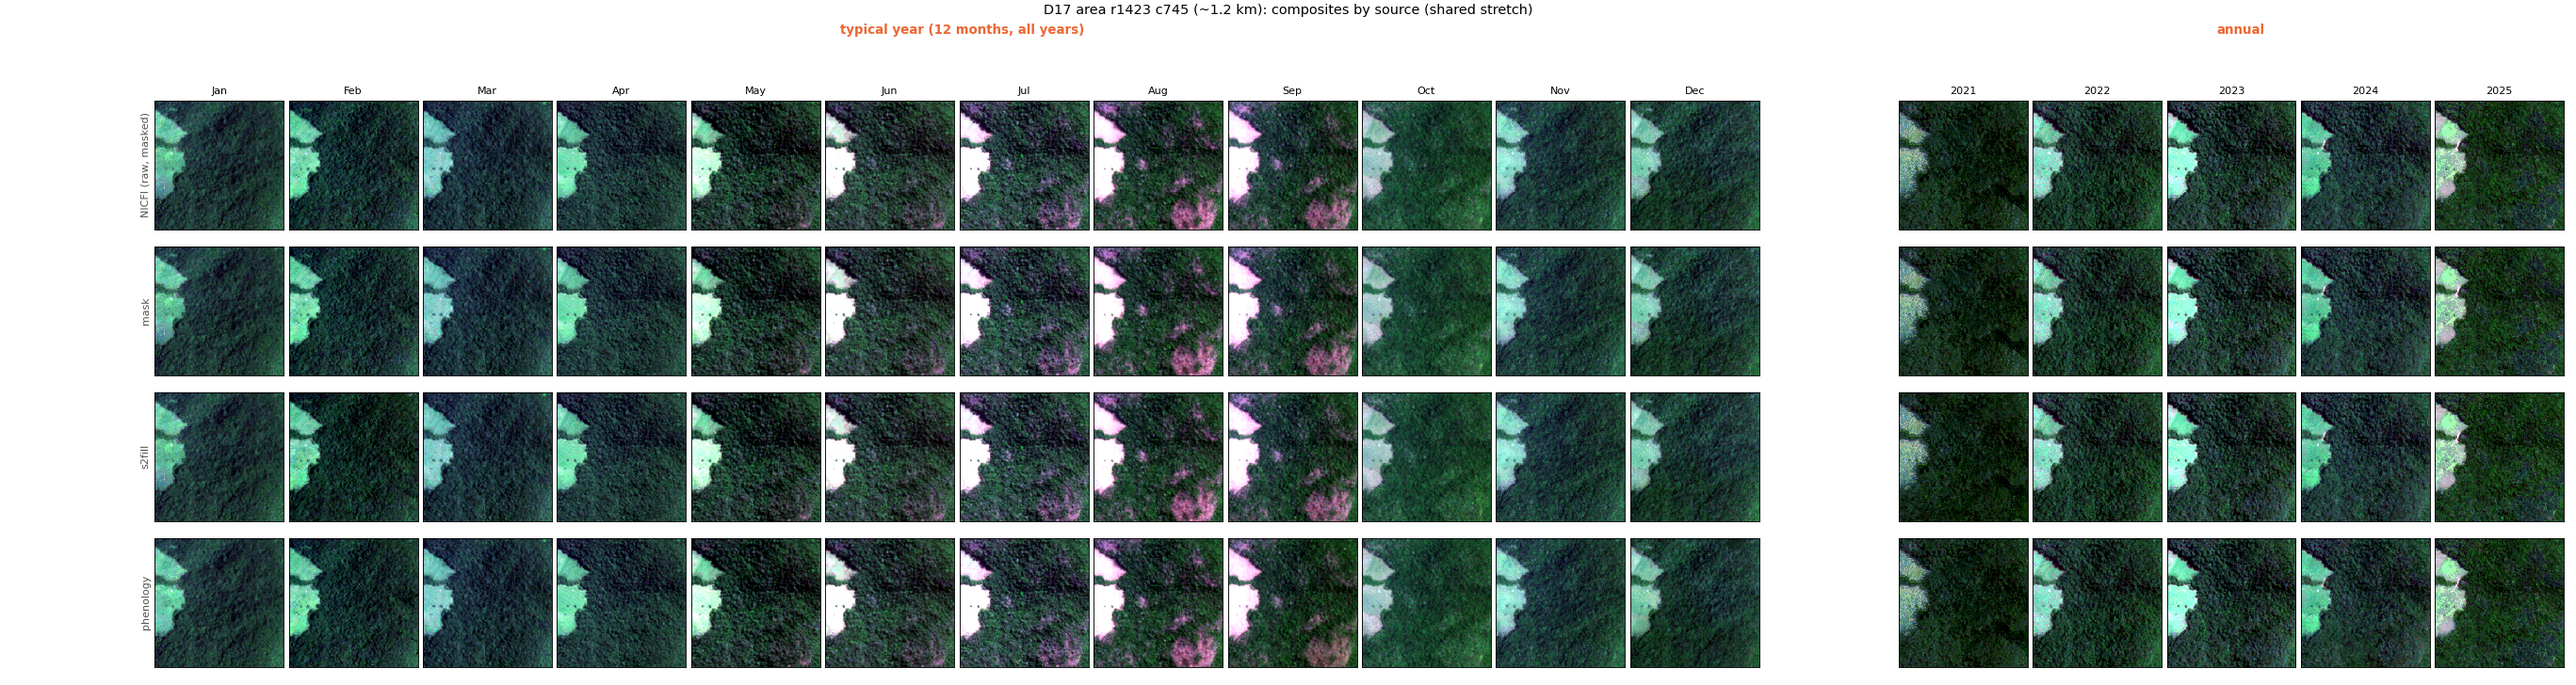
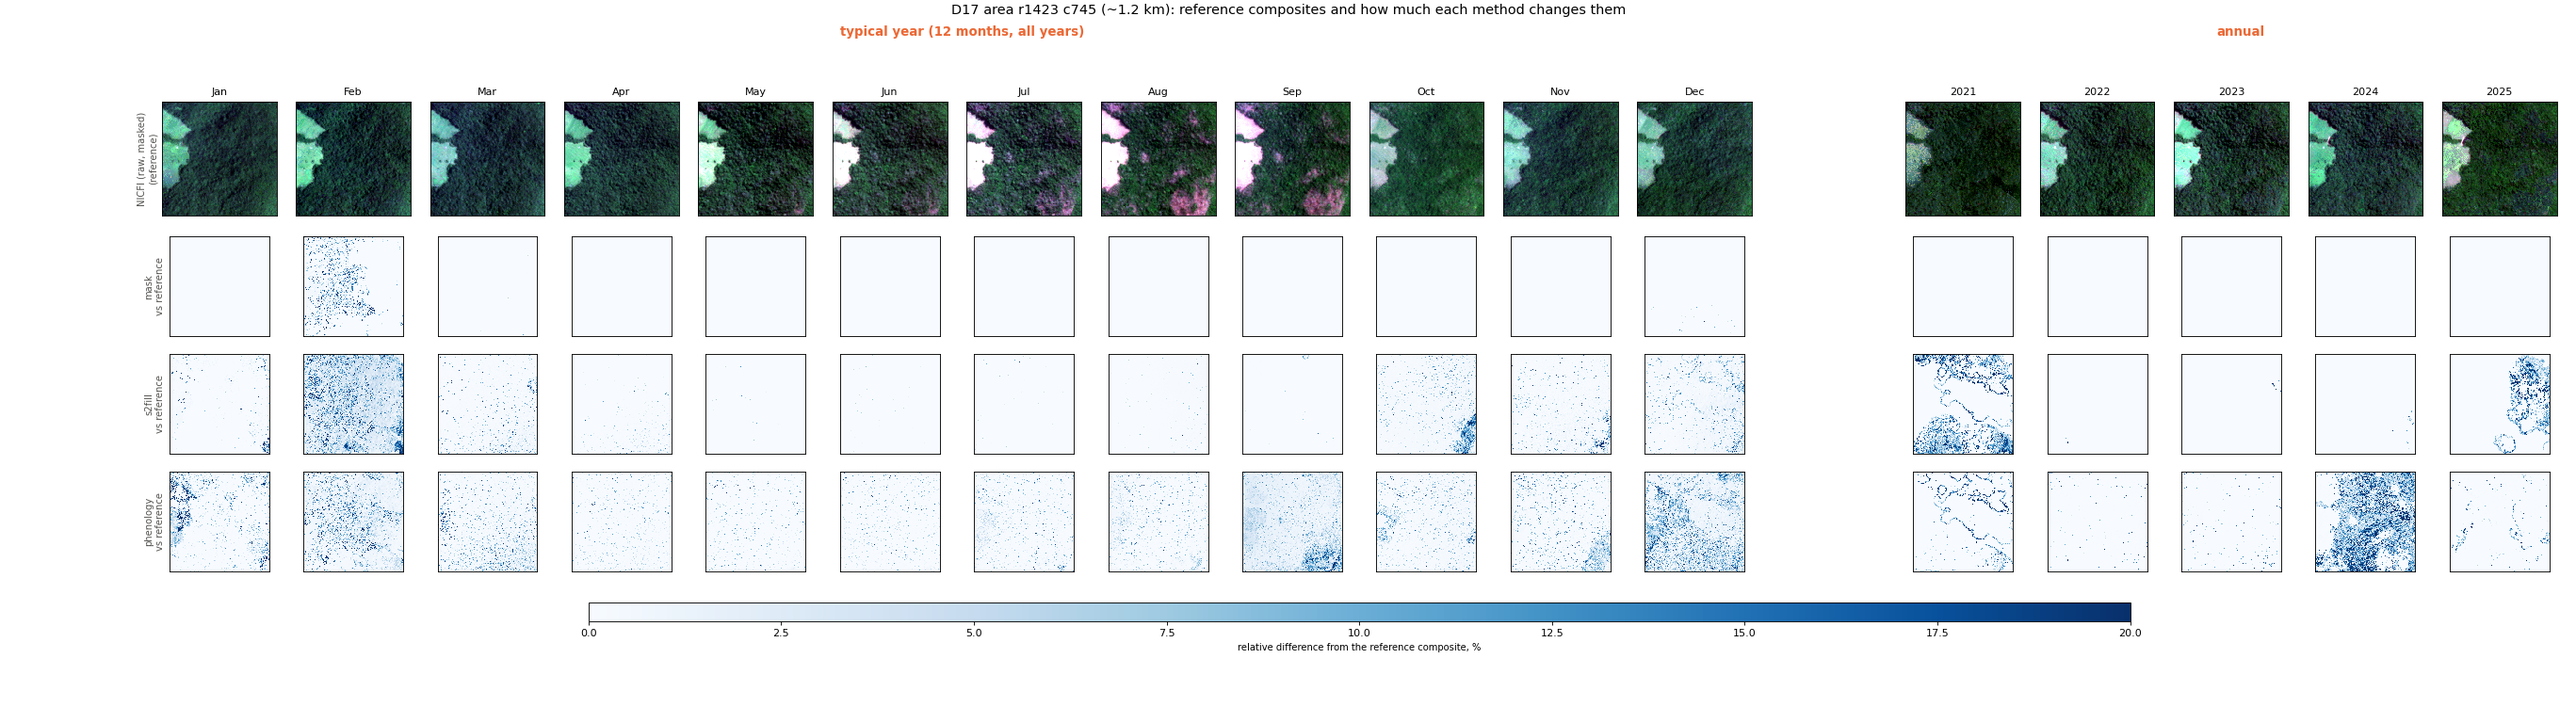
Composite figures: show each method's difference from the raw-NICFI reference
Side by side, the composites from different sources looked identical
(differences of a few DN on ~200), so typical_year.png, annual.png and the
area figures now show the raw-NICFI composite as reference plus each
method's relative-difference map, with the share of pixels differing > 5%.

diff --git a/src/nicfirecon/viz.py b/src/nicfirecon/viz.py
@@ -20,11 +20,12 @@ post-checked NICFI masks (cache/example_windows.json).
                              each method's result, its quality source below
     compare_full_tile.png    the most contaminated months, whole tile
 3_composite/
-    typical_year.png         12 monthly composites, one row per source
-    annual.png               annual composites, one row per source
+    typical_year.png         12 monthly composites from raw NICFI (reference),
+                             then each method's relative difference from it
+    annual.png               the same for the annual composites
     coverage.png             per source, % of tile from usable observations
-    area_<year>_r<row>_c<col>.png  one example area: typical year + annual,
-                             one row per source
+    area_<year>_r<row>_c<col>.png  one example area: reference typical year +
+                             annual, then each method's difference maps
 """
 import json
 from collections import defaultdict
@@ -447,23 +448,62 @@ def _composite_paths(tile, kind, source):
     return {k: d / f"{tile.tile_id}_{k}.tif" for k in keys if (d / f"{tile.tile_id}_{k}.tif").exists()}
 
 
+DIFF_VMAX = 20.0      # % colour scale of the difference maps
+DIFF_THRESH = 5.0     # % above which a pixel counts as "different" in panel titles
+
+
+def rel_diff(a, ref):
+    """Per-pixel mean |a - ref| over the 4 bands, relative to ref's mean
+    brightness, in %; NaN where ref has no data."""
+    num = np.abs(a[:4].astype(np.float32) - ref[:4]).mean(0)
+    den = ref[:4].astype(np.float32).mean(0)
+    with np.errstate(invalid="ignore", divide="ignore"):
+        return np.where(np.all(ref[:4] > 0, axis=0), 100 * num / den, np.nan)
+
+
+def _reference(sources):
+    return "nicfi" if "nicfi" in sources else sources[0]
+
+
+def _diff_cmap():
+    cmap = plt.get_cmap("Blues").copy()
+    cmap.set_bad("#0b0b0b")
+    return cmap
+
+
 def _grid_figure(tile, kind, sources, title, path, step=6):
+    """Row 1: the reference composites (raw NICFI). Then, per other source,
+    a map of its relative difference from the reference -- the composites
+    themselves look near-identical side by side, the differences don't."""
     imgs = {s: {k: io_utils.read_full(p)[0][:, ::step, ::step]
                 for k, p in _composite_paths(tile, kind, s).items()} for s in sources}
-    keys = sorted({k for v in imgs.values() for k in v})
-    lims = lims_stack(np.stack([a for v in imgs.values() for a in v.values()]))
-    fig, axes = plt.subplots(len(sources), len(keys), figsize=(2.3 * len(keys), 2.45 * len(sources) + 0.6),
-                             squeeze=False)
-    for i, s in enumerate(sources):
-        for j, k in enumerate(keys):
-            if k in imgs[s]:
-                axes[i, j].imshow(rgb(imgs[s][k], lims))
-            if i == 0:
-                axes[i, j].set_title(MONTH_ABBR[int(k[1:]) - 1] if kind == "typical_year" else k, fontsize=11)
-        axes[i, 0].set_ylabel(SOURCE_LABEL[s], fontsize=11, color=INK)
+    ref = _reference(sources)
+    others = [s for s in sources if s != ref]
+    keys = sorted(imgs[ref])
+    lims = lims_stack(np.stack(list(imgs[ref].values())))
+    fig, axes = plt.subplots(1 + len(others), len(keys), squeeze=False,
+                             figsize=(2.3 * len(keys), 2.55 * (1 + len(others)) + 1.0))
+    label = (lambda k: MONTH_ABBR[int(k[1:]) - 1]) if kind == "typical_year" else (lambda k: k)
+    for j, k in enumerate(keys):
+        axes[0, j].imshow(rgb(imgs[ref][k], lims))
+        axes[0, j].set_title(label(k), fontsize=11)
+        for i, s in enumerate(others, start=1):
+            if k not in imgs[s]:
+                continue
+            d = rel_diff(imgs[s][k], imgs[ref][k])
+            im = axes[i, j].imshow(d, cmap=_diff_cmap(), vmin=0, vmax=DIFF_VMAX, interpolation="nearest")
+            axes[i, j].set_title(f"{np.nanmean(d > DIFF_THRESH):.1%} > {DIFF_THRESH:g}%", fontsize=8.5,
+                                 color=INK)
+    axes[0, 0].set_ylabel(f"{SOURCE_LABEL[ref]}\n(reference)", fontsize=10, color=INK)
+    for i, s in enumerate(others, start=1):
+        axes[i, 0].set_ylabel(f"{s}\nvs reference", fontsize=10, color=INK)
     _noticks(axes)
+    if others:
+        cb = fig.colorbar(im, ax=axes[1:, :].ravel().tolist(), orientation="horizontal",
+                          fraction=0.03, pad=0.04, aspect=70)
+        cb.set_label("relative difference from the reference composite, % (mean |Δ| over bands / "
+                     "reference brightness)", fontsize=9)
     fig.suptitle(title, fontsize=13)
-    fig.tight_layout()
     return _save(fig, path, 80)
 
 
@@ -499,44 +539,55 @@ def fig_coverage(tile, ty_sources, an_sources, out_dir):
 
 
 def fig_composite_areas(tile, ty_sources, an_sources, out_dir):
+    """Per example area: the reference (raw NICFI) typical-year and annual
+    composites, then each other source's relative difference from them."""
     sources = [s for s in cp.SOURCES if s in ty_sources or s in an_sources]
+    ref = _reference(sources)
+    others = [s for s in sources if s != ref]
     chosen = {}
     for w in example_windows(tile):
         chosen.setdefault(w["month"][:4], w)
+    mk, yk = [f"m{k:02d}" for k in range(1, 13)], tile.years
     paths = []
     for year, w in sorted(chosen.items()):
-        ty = {s: {k: _crop(io_utils.read_full(p)[0], w) for k, p in _composite_paths(tile, "typical_year", s).items()}
-              for s in ty_sources}
-        an = {s: {k: _crop(io_utils.read_full(p)[0], w) for k, p in _composite_paths(tile, "annual", s).items()}
-              for s in an_sources}
-        mk = [f"m{k:02d}" for k in range(1, 13)]
-        yk = tile.years
-        all_crops = [a for v in list(ty.values()) + list(an.values()) for a in v.values()]
-        lims = lims_stack(np.stack(all_crops))
+        load = lambda kind, src: {k: _crop(io_utils.read_full(p)[0], w)
+                                  for k, p in _composite_paths(tile, kind, src).items()}
+        ty = {s: load("typical_year", s) for s in ty_sources}
+        an = {s: load("annual", s) for s in an_sources}
+        refs = list(ty.get(ref, {}).values()) + list(an.get(ref, {}).values())
+        lims = lims_stack(np.stack(refs))
         ncol = len(mk) + 1 + len(yk)
-        fig, axes = plt.subplots(len(sources), ncol, figsize=(1.9 * ncol, 2.05 * len(sources) + 0.9),
-                                 squeeze=False, gridspec_kw=dict(wspace=0.04, hspace=0.06, left=0.06,
-                                                                 right=0.995, top=0.86, bottom=0.02))
-        for i, s in enumerate(sources):
-            for j, k in enumerate(mk):
-                if k in ty.get(s, {}):
-                    axes[i, j].imshow(rgb(ty[s][k], lims), interpolation="nearest")
+        nrow = 1 + len(others)
+        fig, axes = plt.subplots(nrow, ncol, figsize=(1.9 * ncol, 2.05 * nrow + 1.4), squeeze=False,
+                                 gridspec_kw=dict(wspace=0.04, hspace=0.18, left=0.06, right=0.995,
+                                                  top=0.86, bottom=0.14))
+        im = None
+        for block, keys, offset in ((ty, mk, 0), (an, yk, len(mk) + 1)):
+            for j, k in enumerate(keys, start=offset):
+                if k in block.get(ref, {}):
+                    axes[0, j].imshow(rgb(block[ref][k], lims), interpolation="nearest")
+                axes[0, j].set_title(MONTH_ABBR[j] if offset == 0 else k, fontsize=10)
+                for i, s in enumerate(others, start=1):
+                    if k in block.get(s, {}) and k in block.get(ref, {}):
+                        d = rel_diff(block[s][k], block[ref][k])
+                        im = axes[i, j].imshow(d, cmap=_diff_cmap(), vmin=0, vmax=DIFF_VMAX,
+                                               interpolation="nearest")
+        for i in range(nrow):
             axes[i, len(mk)].axis("off")
-            for j, k in enumerate(yk, start=len(mk) + 1):
-                if k in an.get(s, {}):
-                    axes[i, j].imshow(rgb(an[s][k], lims), interpolation="nearest")
-            axes[i, 0].set_ylabel(SOURCE_LABEL[s], fontsize=10, color=INK)
-        for j, k in enumerate(mk):
-            axes[0, j].set_title(MONTH_ABBR[j], fontsize=10)
-        for j, k in enumerate(yk, start=len(mk) + 1):
-            axes[0, j].set_title(k, fontsize=10)
+        axes[0, 0].set_ylabel(f"{SOURCE_LABEL[ref]}\n(reference)", fontsize=9, color=INK)
+        for i, s in enumerate(others, start=1):
+            axes[i, 0].set_ylabel(f"{s}\nvs reference", fontsize=9, color=INK)
         _noticks(axes)
+        if im is not None:
+            cb = fig.colorbar(im, ax=axes[1:, :].ravel().tolist(), orientation="horizontal",
+                              fraction=0.05, pad=0.08, aspect=80)
+            cb.set_label("relative difference from the reference composite, %", fontsize=9)
         fig.text(0.06 + 0.94 * len(mk) / ncol / 2, 0.95, "typical year (12 months, all years)",
                  ha="center", fontsize=12, weight="bold", color=C2)
         fig.text(0.06 + 0.94 * (len(mk) + 1 + len(yk) / 2) / ncol, 0.95, "annual", ha="center",
                  fontsize=12, weight="bold", color=C2)
         fig.suptitle(f"{tile.tile_id} area r{w['r0']} c{w['c0']} (~{w['win'] * 4.77 / 1000:.1f} km): "
-                     "composites by source (shared stretch)", fontsize=13, y=0.995)
+                     "reference composites and how much each method changes them", fontsize=13, y=0.995)
         paths.append(_save(fig, out_dir / f"area_{year}_r{w['r0']}_c{w['c0']}.png", 80))
     return paths
 
@@ -565,11 +616,12 @@ def run_visualize(tile: cfg.Tile, what: str = "all", log=print):
             out = tile.fig_dir("3_composite")
             if ty:
                 paths.append(_grid_figure(tile, "typical_year", ty, f"{tile.tile_id}: typical-year "
-                                          "monthly composites by source (shared stretch)",
+                                          "composites -- reference, and how much each method changes it",
                                           out / "typical_year.png"))
             if an:
-                paths.append(_grid_figure(tile, "annual", an, f"{tile.tile_id}: annual composites by "
-                                          "source (shared stretch)", out / "annual.png", step=4))
+                paths.append(_grid_figure(tile, "annual", an, f"{tile.tile_id}: annual composites -- "
+                                          "reference, and how much each method changes it",
+                                          out / "annual.png", step=4))
             paths.append(fig_coverage(tile, ty, an, out))
             paths += fig_composite_areas(tile, ty, an, out)
     for p in paths:

diff --git a/docs/nicfirecon.md b/docs/nicfirecon.md
@@ -43,7 +43,7 @@ GeoTIFF has named bands and a `_quality.tif` next to it.
 |---|---|---|
 | `1_cloudmask/` | `mask_stats.png`, `postcheck_frequency.png`, `mask_effect_<year>.png`, `s2_coverage.png` | NICFI cloud classes per month, raw OCM vs post-checked; where and how often the post-check clears flags; example windows before/after; S2 composite coverage |
 | `2_reconstruct/` | `sources_by_month.png`, `harmonization.png`, `compare_<year>.png`, `compare_full_tile.png` | the three methods side by side on the same cloudy months, each with its quality-source map |
-| `3_composite/` | `typical_year.png`, `annual.png`, `coverage.png`, `area_<year>_*.png` | typical-year and annual composites, one row per source |
+| `3_composite/` | `typical_year.png`, `annual.png`, `coverage.png`, `area_<year>_*.png` | the raw-NICFI composites as reference, then each method's relative-difference map (side by side the composites look near-identical; the differences are where the methods matter) |
 
 ## D17 results by method (`configs/D17.yaml`, 42 min end to end on one RTX 3090)
 
@@ -72,6 +72,15 @@ Mean over 60 months, % of the tile by data source (from each method's
   uniformly darker (tile median blue 178 in 2021-11 vs ~220-250 in other
   months), within the outlier bounds, and annual composites deliberately
   don't normalize across months (that would erase real seasonality).
+- **Composites barely depend on the method where data is plentiful.** With
+  10-12 usable months per pixel-year and 3-5 clear years per calendar
+  month, compositing alone removes almost all cloud. Share of pixels whose
+  composite differs > 5% from the raw-NICFI one: `mask` ~0 (by
+  construction); typical year, wet season (Dec-Feb, Sep) 11-24% for
+  `s2fill` and 15-33% for `phenology`, dry season (Apr-Aug) 1-6%; annual
+  2-7%, except `phenology` 2024 (14%, the south of the tile around the
+  fire-smoke months). The reconstruction methods matter most for single
+  months and for wet-season typical-year months.
 - Found during the refactor: the S2 haze-test blue references were cached
   once and never rebuilt, so they still reflected the raw masks after the
   post-check changed them; `s2composite` now rebuilds them every run. The
